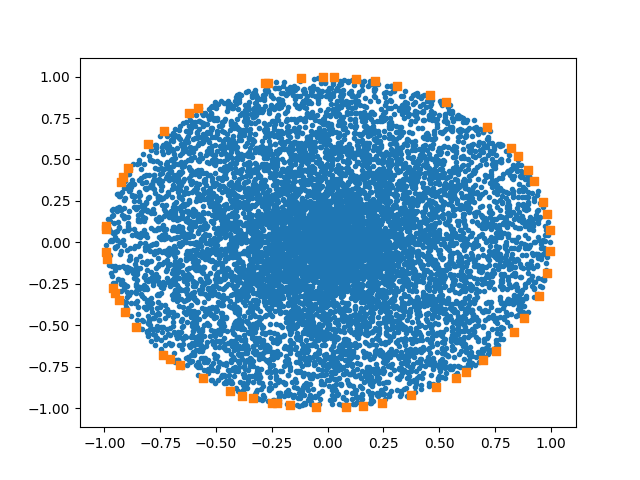
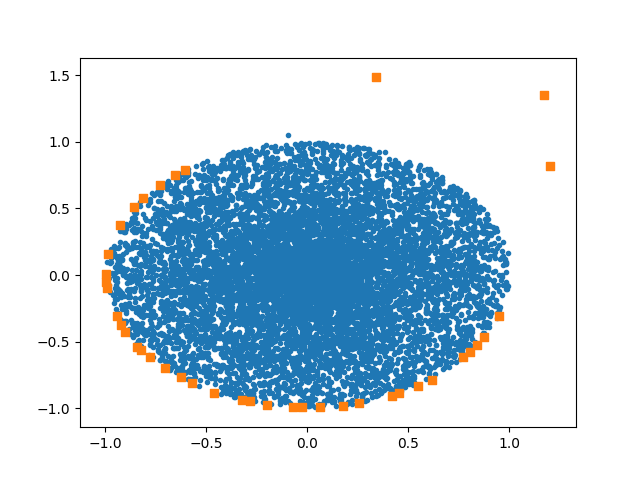
Added error assumptions for generating circle data

diff --git a/Utils/InputGenerator.py b/Utils/InputGenerator.py
@@ -30,7 +30,7 @@ def inputGenerator(samples):
     return sampleSet
 
 
-def generateCircularData(num):
+def generateCircularData(num, error=0):
         theta = np.linspace(0, 2*np.pi, num)
         a, b = 1 * np.cos(theta), 1 * np.sin(theta)
         r = np.random.rand((num))
@@ -38,7 +38,8 @@ def generateCircularData(num):
         samples = []
         for _ in range(num):
                 samples.append([x[_], y[_]])
-        return np.array(samples)
+        wrongs = np.random.uniform(low=-0.5, high=1.5, size=(error, 2) )
+        return np.vstack((np.array(samples), wrongs))
         # plots
         # plt.figure(figsize=(7,6))
         # plt.plot(a, b, linestyle='-', linewidth=2, label='Circle')

diff --git a/main.py b/main.py
@@ -164,7 +164,7 @@ def run_all(samples):
 def main(type, filename):
         samples = []
         if type == 4:
-                samples = generateCircularData(10000)
+                samples = generateCircularData(10000, error=5)
                 xcv = inputGenerator(50)
                 # samples = np.vstack((samples, xcv))
         else:
